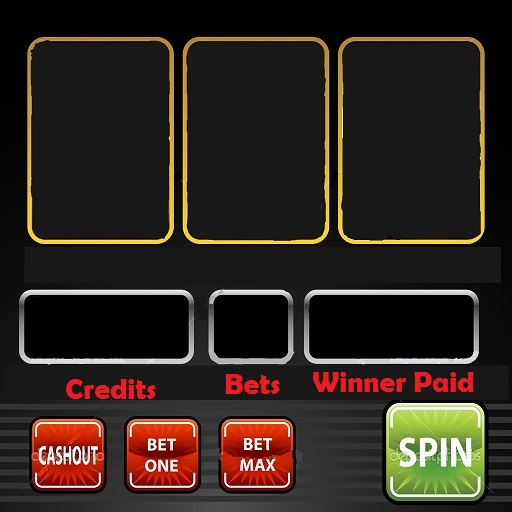
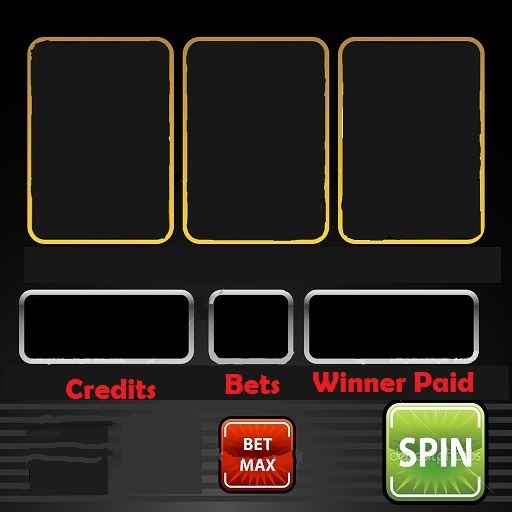
Added Reset and Quit functionality postitioned img & lbl

Changed region(s): [[0.0312, 0.8125, 0.4062, 0.9688]]

diff --git a/Scripts/game.js b/Scripts/game.js
@@ -9,18 +9,7 @@ var image1 = document.getElementById("image1");
 var image2 = document.getElementById("image2");
 var image3 = document.getElementById("image3");
 
-/**
- * function to validate whether the bet is more than the amount of money
- * 
- * @method 
- * @return {void}
- */
-function validateBet() {
-    if (Number(txtBet.textContent) <= Number(lblMoney.textContent))
-    {
-        btnSpin.disable=true;
-    }
-}
+
 
 var playerMoney = 1000;
 var winnings = 0;
@@ -33,13 +22,15 @@ var tweety = 0;
 var sylvester = 0;
 var hector = 0;
 
+//function to set values on the load of the game
 
 /* Utility function to show Player Stats */
-function showPlayerStats()
-{
-    lblJackpot.textContent("Jackpot: " + jackpot);
-    lblMoney.textContent("Player Money: " + playerMoney);
-   
+function showPlayerStats() {
+    // alert(playerBet);
+    lblJackpot.textContent = "$" + winnings;
+    lblMoney.textContent = "$" + playerMoney;
+    txtBet.textContent = "$" + playerBet;
+
 }
 
 /* Utility function to reset all fruit tallies */
@@ -53,7 +44,8 @@ function resetFruitTally() {
 function resetAll() {
     playerMoney = 1000;
     jackpot = 5000;
-    playerBet = 0;
+    playerBet = 10;
+    winnings = 0;
 }
 
 
@@ -72,7 +64,7 @@ function checkJackPot() {
 /* Utility function to show a win message and increase player money */
 function showWinMessage() {
     playerMoney += winnings;
-    lblMoney.textContent(winnings);
+    lblMoney.textContent = "$" + playerMoney;
     resetFruitTally();
     checkJackPot();
 }
@@ -80,14 +72,13 @@ function showWinMessage() {
 /* Utility function to show a loss message and reduce player money */
 function showLossMessage() {
     playerMoney -= playerBet;
-    lblMoney.textContent(playerMoney);
+    lblMoney.textContent = "$" + playerMoney;
     resetFruitTally();
 }
 
 /* Utility function to check if a value falls within a range of bounds */
 function checkRange(value, lowerBounds, upperBounds) {
-    if (value >= lowerBounds && value <= upperBounds)
-    {
+    if (value >= lowerBounds && value <= upperBounds) {
         return value;
     }
     else {
@@ -122,25 +113,20 @@ function Reels() {
 }
 
 /* This function calculates the player's winnings, if any */
-function determineWinnings()
-{
-    if (hector == 0)
-    {
+function determineWinnings() {
+    if (hector == 0) {
         if (tweety == 3) {
             winnings = playerBet * 10;
         }
-        else if(sylvester == 3) {
+        else if (sylvester == 3) {
             winnings = jackpot;
             alert("I did, I did tee a puddy tat! ")
-        }
-        else if (hector <= 3) {
-            winnings = playerBet * 30;
         }
         else if (tweety == 2) {
             winnings = playerBet * 2;
         }
         else if (sylvester == 2) {
-            winnings = playerBet * 2;
+            winnings = playerBet * 100;
         }
         else {
             winnings = playerBet * 1;
@@ -148,20 +134,19 @@ function determineWinnings()
         //winNumber++;
         showWinMessage();
     }
-    else
-    {
-        lossNumber++;
+    else {
+
         showLossMessage();
     }
-    
+
 }
 
-/* When the player clicks the spin button the game kicks off */
-btnSpin.click(function () {
-    playerBet = Number(txtBet.textContent());
 
-    if (playerMoney == 0)
-    {
+/* When the player clicks the spin button the game kicks off */
+btnSpin.addEventListener('click', function () {
+
+    //validating whether the bet value is valid or not
+    if (playerMoney == 0) {
         if (confirm("You ran out of Money! \nDo you want to play again?")) {
             resetAll();
             showPlayerStats();
@@ -175,19 +160,66 @@ btnSpin.click(function () {
     }
     else if (playerBet <= playerMoney) {
         spinResult = Reels();
-        character = spinResult[0] + " - " + spinResult[1] + " - " + spinResult[2];
-        
+        //for a valid bet choose the correct image to display from a random value
+        switch (spinResult[0]) {
+            case 0:
+                image1.setAttribute("src", "Assets/images/tweety.png");
+                break;
+            case 1:
+                image1.setAttribute("src", "Assets/images/sylvester.png");
+                break;
+            case 2:
+                image1.setAttribute("src", "Assets/images/hector.gif");
+                break;
+        }
+        switch (spinResult[1]) {
+            case 0:
+                image2.setAttribute("src", "Assets/images/tweety.png");
+                break;
+            case 1:
+                image2.setAttribute("src", "Assets/images/sylvester.png");
+                break;
+            case 2:
+                image2.setAttribute("src", "Assets/images/hector.gif");
+                break;
+        }
+        switch (spinResult[2]) {
+            case 0:
+                image3.setAttribute("src", "Assets/images/tweety.png");
+                break;
+            case 1:
+                image3.setAttribute("src", "Assets/images/sylvester.png");
+                break;
+            case 2:
+                image3.setAttribute("src", "Assets/images/hector.gif");
+                break;
+        }
+
         determineWinnings();
-        turn++;
+
         showPlayerStats();
+
     }
     else {
         alert("Please enter a valid bet amount");
     }
-    image1.s
-    
+
+
 });
 
+//method for the reset button that sets everything back to the default values
+btnReset.addEventListener("click", function () {
+    
+    resetFruitTally();
+    resetAll();
+    showPlayerStats();
 
+    image1.setAttribute("src", "../Assets/images/Granny.png");
+    image2.setAttribute("src", "../Assets/images/spin2win.png");
+    image3.setAttribute("src", "../Assets/images/hector.gif");
+});
 
-//txtBet.onchange(validateBet());
+//method for the quit button that exits the game
+btnQuit.addEventListener("click", function(){
+    window.close();
+});

diff --git a/Content/game.css b/Content/game.css
@@ -9,23 +9,76 @@
 
 .image1 {
     position:absolute; 
-    TOP:60px; 
+    TOP:140px; 
     LEFT:60px; 
     WIDTH:100px;
     HEIGHT:150px
 }
 .image2{
     position:absolute; 
-    TOP:60px; 
+    TOP:140px; 
     LEFT:210px; 
     WIDTH:100px;
     HEIGHT:150px
 }
 .image3{
     position:absolute; 
-    TOP:60px; 
+    TOP:140px; 
     LEFT:360px; 
     WIDTH:100px;
     HEIGHT:150px
 
+}
+#btnSpin{
+    position: absolute;
+    top:481px;
+    left: 394px;
+    height: 100px;
+    width: 100px;
+    background-color: #10ff20;
+    
+}
+#btnReset{
+    position: absolute;
+    top:498px;
+    left: 228px;
+    height: 75px;
+    width: 75px;
+    background-color: #e50e0e;
+}
+#btnQuit{
+    position: absolute;
+    top:498px;
+    left: 40px;
+    height: 75px;
+    width: 75px;
+    background-color: #e50e0e;
+}
+label, text{
+    background-color: #000000;
+    color: red;
+    font-family: Impact, Charcoal, sans-serif;
+    font-size: 250%;
+}
+#lblMoney{
+    position: absolute;
+    top: 380px;
+    left: 56px;
+    height: 50px;
+    width: 115px;
+
+}
+#lblJackpot{
+    position: absolute;
+    top: 380px;
+    left: 356px;
+    height: 50px;
+    width: 115px;
+}
+#txtBet{
+    position: absolute;
+    top: 380px;
+    left: 228px;
+    height: 50px;
+    width: 65px;
 }

diff --git a/index.html b/index.html
@@ -16,9 +16,9 @@
     <button id="btnSpin"> SPIN </button>
     <button id="btnReset">Reset</button>
     <button id="btnQuit">Quit</button>
-    <label id="lblMoney"></label>
-    <label id="lblJackpot"></label>
-    <text id="txtBet"></text>
+    <label id="lblMoney">$1000</label>
+    <label id="lblJackpot">$0</label>
+    <text id="txtBet">$10</text>
 
 
 
